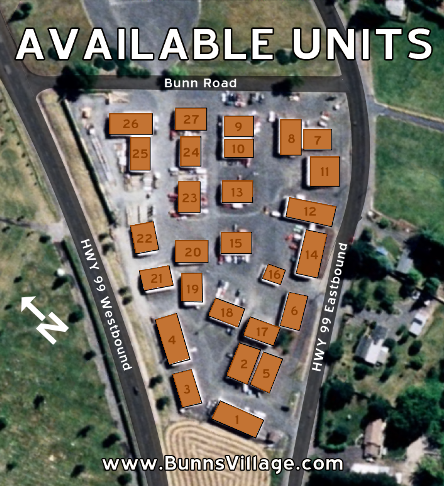
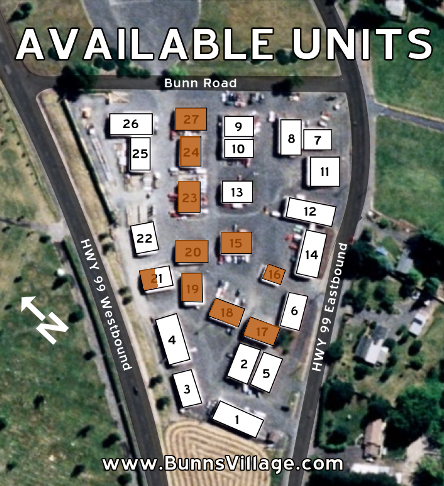
Database complete-ish

diff --git a/BVupdate/index.html b/BVupdate/index.html
@@ -31,6 +31,10 @@
 <h3>AVAILABILITIES FOR MARCH 2016</h3>
 <img src="map.png" width="444" class="picture" usemap="#clickmap"> 
 <map name="clickmap">
+<area shape="poly" coords="130,225,153,221,158,249,135,253" href="http://www.bunnsvillage.com/22.html" alt="#22">
+<area shape="poly" coords="154,268,168,265,173,285,158,287" href="http://www.bunnsvillage.com/21A.html" alt="#21A">
+<area shape="poly" coords="130,137,150,137,150,170,130,170" href="http://www.bunnsvillage.com/25.html" alt="#25">
+<area shape="poly" coords="109,113,152,113,152,134,109,134" href="http://www.bunnsvillage.com/26.html" alt="#26">
 </map>
 <table id="avail_table">
 <tbody>
@@ -42,6 +46,42 @@
 </th><th width="100"><b>Rate</b></th>
 <th width="100"><b>Availability</b></th>
 </tr>
+<tr align="center">
+<td width="100">#22</td>
+<td width="100">2763 NE Bunn Road</td>
+<td width="100">40x60x12</td>
+<td width="100">click for details
+<td width="100">$0</td>
+<td width="100"><a href = "http://www.bunnsvillage.com/22.html">NOW</a></td>
+</tr>
+
+<tr align="center">
+<td width="100">#21A</td>
+<td width="100">2759 NE Bunn Road</td>
+<td width="100">40x24x12</td>
+<td width="100">click for details
+<td width="100">$0</td>
+<td width="100"><a href = "http://www.bunnsvillage.com/21A.html">NOW</a></td>
+</tr>
+
+<tr align="center">
+<td width="100">#25</td>
+<td width="100">2775 NE Bunn Road</td>
+<td width="100">40x60x14</td>
+<td width="100">click for details
+<td width="100">$0</td>
+<td width="100"><a href = "http://www.bunnsvillage.com/25.html">NOW</a></td>
+</tr>
+
+<tr align="center">
+<td width="100">#26</td>
+<td width="100">2779 NE Bunn Road</td>
+<td width="100">40x88x12</td>
+<td width="100">click for details
+<td width="100">$0</td>
+<td width="100"><a href = "http://www.bunnsvillage.com/26.html">NOW</a></td>
+</tr>
+
 </tbody>
  </table>
 <h3>UPDATE: A variety of 1200-2400 sq. ft. units will be available for rent in the months ahead. Check back, call or email us for details!</h3>

diff --git a/BVupdate/src/bvupdate/MapUpdater.java b/BVupdate/src/bvupdate/MapUpdater.java
@@ -18,6 +18,8 @@ import java.util.HashMap;
 import java.util.Map;
 import java.util.Set;
 import javax.imageio.ImageIO;
+import java.sql.*;
+
 
 /**
  *
@@ -28,10 +30,13 @@ public class MapUpdater {
     BufferedImage map = null;
     HashMap occupied;
     HashMap avails;
+    Connection connection;
     
     // UPDATER CONSTRUCTOR
     
-    public MapUpdater(String ... args) {
+    public MapUpdater(Connection connect, String ... args) {
+        
+        this.connection = connect;
         
         occupied = new <Integer, Building>HashMap();
         avails = new <Integer, Building>HashMap();
@@ -45,16 +50,100 @@ public class MapUpdater {
         
     }
     
+    // CREATE BUILDINGS
+    // Takes the ResultSet from the database query; 
+    // populates hashmap "occupied" using the data from resultset
+    private void createBuildings(ResultSet results) {
+        
+        try {
+            while (results.next()) {
+                String number, address, coords, ohdDescription, notes, temp;
+                int length, width, height, sqfeet, mandoors, restrooms, restrooms_ada, rate;
+                Boolean threePhase = false, hasAC = false;
+                Polygon poly;
+                Building b;
+
+                // Grab values from the results
+                number = results.getString("number");
+                address = results.getString("address");
+                coords = results.getString("coords");
+                length = results.getInt("length");
+                width = results.getInt("width");
+                height = results.getInt("height");
+                sqfeet = length * width;
+                mandoors = results.getInt("mandoors");
+                ohdDescription = results.getString("ohd_desc");
+                restrooms = results.getInt("restrooms");
+                restrooms_ada = results.getInt("restrooms_ada");
+                rate = results.getInt("rate");
+                notes = results.getString("notes");
+                
+                temp = results.getString("three_phase");
+                if (temp != null)
+                    if (temp.matches("yes"))
+                       threePhase = true;
+                
+                temp = results.getString("ac");
+                if (temp != null)
+                    if (temp.matches("yes"))
+                       hasAC = true;
+
+                
+                poly = new Polygon();
+                poly.reset();
+                
+                if (coords != null) {
+                // Extract coordinates from "coords"
+                    String coordsArray[] = coords.split(",", 8);
+                    for (int i = 0; i < 8; i+= 2) {
+                        poly.addPoint(Integer.parseInt(coordsArray[i]), Integer.parseInt(coordsArray[i+1]));
+                    }
+                }
+               
+                b = new Building(number,address, poly);
+                b.setDoors(mandoors, ohdDescription);
+                b.setOptions(threePhase, hasAC);
+                b.setRate(rate);
+                b.setRestrooms(restrooms, restrooms_ada);
+                b.setSize(length, width, height);
+                
+                occupied.put(number.hashCode(), b);
+
+            }
+        }
+        
+        catch (Exception e) {
+            e.printStackTrace();
+        }
+        
+    }
+    
     // POPULATE HASHMAP
-    // Creates a total listing of the buildings and their positions within the image.
+    // Creates a total listing of the buildings, their attributes, and corresponding 
+    //positions within the image.
     private void populateHashmap() {
        
         Polygon poly;
         Building b;
+               
+        Statement state = null;
+        
+        try {
+            state = connection.createStatement();
+            ResultSet results = state.executeQuery("select * from buildings");
+            
+            if (results != null)
+                createBuildings(results);
+            
+        }
+        catch (Exception e) {
+            e.printStackTrace();
+        }
+        
         
         //Building  (String name, String address, LinkedList<String> features, 
         //          int length, int width, int monthlyRate, Polygon myPoly)
-        
+        /*
         // #27
         poly = new Polygon();
         poly.addPoint(175,108);
@@ -391,7 +480,7 @@ public class MapUpdater {
         b = new Building("1B","8083 NW Hwy 99",poly);
 
         occupied.put("1B".hashCode(), b);
-           
+        */   
     }
     
     

diff --git a/BVupdate/src/bvupdate/BVupdate.java b/BVupdate/src/bvupdate/BVupdate.java
@@ -51,10 +51,9 @@ public class BVupdate {
         System.out.println("Database load success...");
         
         
-        
-        
-        MapUpdater mapupdater = new MapUpdater(args);
+        MapUpdater mapupdater = new MapUpdater(connection, args);
         WebUpdater webupdater = new WebUpdater(mapupdater);
+        
         
         try {
             connection.close();
